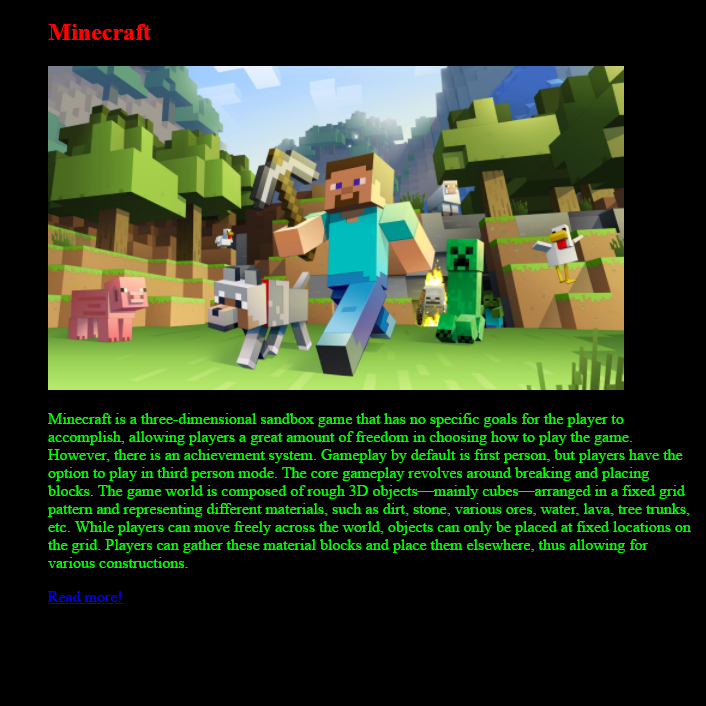
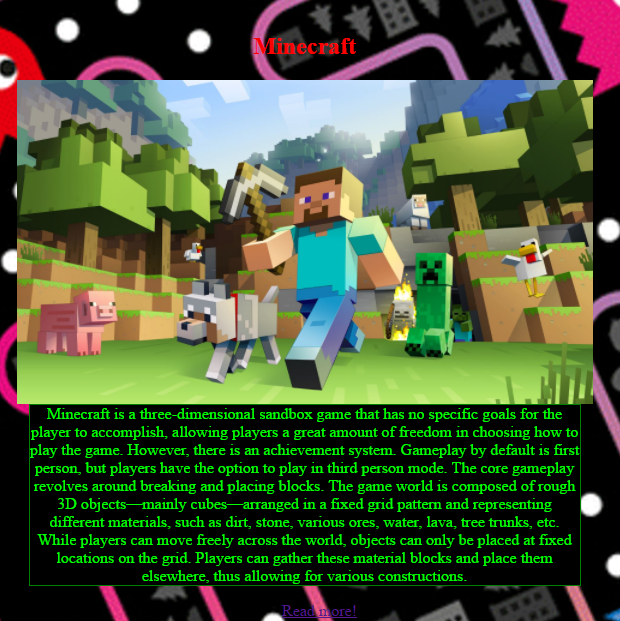
update

diff --git a/layout/Index.html b/layout/Index.html
@@ -7,20 +7,14 @@
 </head>
 <body>
 	<h1>Videogames</h1>
-		<nav>
-				<ul>
-					<li><a href="#">Home</a></li>
-					<li><a href="Index.html">Over mijn hobby</a></li>
-					<li><a href="#">Nieuws</a></li>
-				</ul>
-		</nav>
-	<ul>
+<center>
+	<section>
 		<h2>Minecraft</h2>
 		<img src="Minecraft.jpg" width="576px" height="324px">
 		<p class="p">Minecraft is a three-dimensional sandbox game that has no specific goals for the player to accomplish, allowing players a great amount of freedom in choosing how to play the game. However, there is an achievement system. Gameplay by default is first person, but players have the option to play in third person mode. The core gameplay revolves around breaking and placing blocks. The game world is composed of rough 3D objects—mainly cubes—arranged in a fixed grid pattern and representing different materials, such as dirt, stone, various ores, water, lava, tree trunks, etc. While players can move freely across the world, objects can only be placed at fixed locations on the grid. Players can gather these material blocks and place them elsewhere, thus allowing for various constructions.</p>
 	<li><a href="Minecraft.html">Read more!</a></li>
 		<h2>Mario</h2>
-		<img src="Mario.png" width="672px" height="378px">
+		<img class="Mario" src="Mario.png" width="672px" height="378px">
 		<p class="p">Mario (Japanese: マリオ) is a fictional character in the Mario video game franchise, owned by Nintendo and created by video game designer Shigeru Miyamoto. Serving as the company's mascot and the eponymous protagonist of the series, Mario has appeared in over 200 video games since his creation. Depicted as a short, pudgy, Italian plumber who resides in the Mushroom Kingdom, his adventures generally center upon rescuing Princess Peach from the Koopa villain Bowser. His younger brother and sidekick is Luigi.</p>
 	<li><a href="Mario.html">Read more!</a></li>
 		<h2>Undertale</h2>
@@ -31,7 +25,8 @@
 		<img src="Isaac.png" width="692px" height="524px">
 		<p class="p">The Binding of Isaac is an independent roguelike video game designed by Edmund McMillen and Florian Himsl. The game's title and plot were inspired by the Biblical story of the Binding of Isaac. After his mother receives a message from God demanding the life of her son as proof of her faith, Isaac flees into the monster-filled basement of their home, where he must fight to survive. Players control Isaac through a procedurally generated dungeon in a roguelike manner, defeating monsters in real-time combat while collecting items and power-ups to defeat bosses and eventually Isaac's mom.</p>
 	<li><a href="Isaac.html">Read more!</a></li>
-	</ul>
+	</section>
+</center>
 	<p class="Down">Ian Storm</p>
 </body>
 </html>

diff --git a/layout/Layout css.css b/layout/Layout css.css
@@ -1,7 +1,7 @@
 h1 {
 	margin: -8px;
 	color: white;
-	background-color: limegreen;
+	background-color: none;
 	align-items: flex-start;
 }
 
@@ -23,8 +23,10 @@ nav ul {
 }
 
 body {
-	background-color: black;
-}
+	background:url(Videogames.gif); 
+	background-size: cover;
+	background-attachment: fixed;
+	background-repeat: no-repeat; }
 
 p {
 	color: white;
@@ -37,21 +39,20 @@ h2 {
 }
 
 .Undertale {
-	margin-left: -60px;
-	margin-bottom: -60px;
 	align-items: flex-start;
 }
 
 .Down {
-	text-align: right;
-	background-color: limegreen;
-	align-items: flex-start;
+	float: bottom;
 }
 
 .p {
-	width: 650px;
+	width: 550px;
 	color: lime;
 	align-items: flex-start;
+	background-color: black;
+	border: 1px solid green;
+	margin-top: -4px;
 }
 
 .M1, .MA1, .U1, .I1 {
@@ -97,4 +98,12 @@ h2 {
 .M9, .MA9, .U9, .I9 {
 	color: lime;
 	align-items: flex-start;
+}
+
+section {
+	width: 850px;
+}
+
+.Mario {
+	background-color: black;
 }

diff --git a/gegevens/gegevens.html b/gegevens/gegevens.html
@@ -7,6 +7,7 @@
 <body>
 
 <img src="ian.jpg" alt="Ian" width="124" height="170">
+<section>
 <h1>Mijn algemene gegevens.</h1>
 <p>Mijn naam is Ian Glenneth Storm.</p>
 <p>Ik ben 18 jaar oud en woon in Zwijndrecht. </p>
@@ -27,6 +28,6 @@
 
 <h3>Werkervaring</h3>
 <p>Waar ik heb gewerkt zijn: Wibra en InkStation. In mijn vrije tijd doe ik zelf ook vrijwilligerswerk.</p>
-
+</section>
 </body>
 </html>

diff --git a/gegevens/style.css b/gegevens/style.css
@@ -1,6 +1,9 @@
 
 body {
-	background-color: Limegreen;
+	background:url(tuin.jpg); 
+	background-size: cover;
+	background-attachment: fixed;
+	background-repeat: no-repeat; }
 }
 
 h1 {
@@ -13,4 +16,8 @@ p {
 
 img{
 	float: right;
+}
+
+section{
+	color: white;
 }
